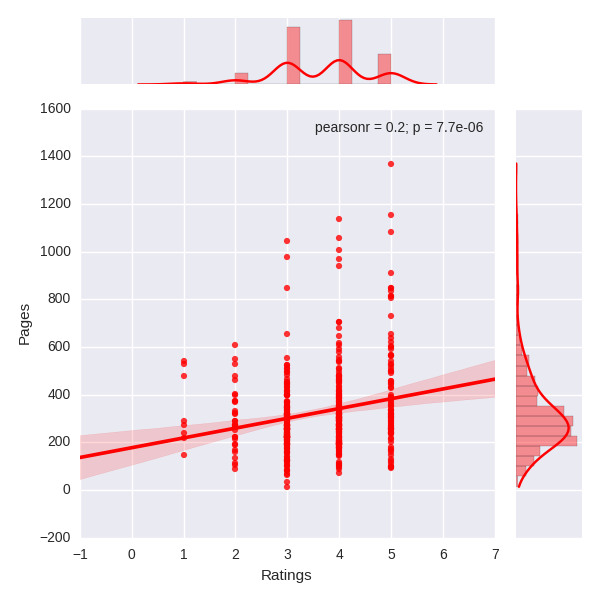
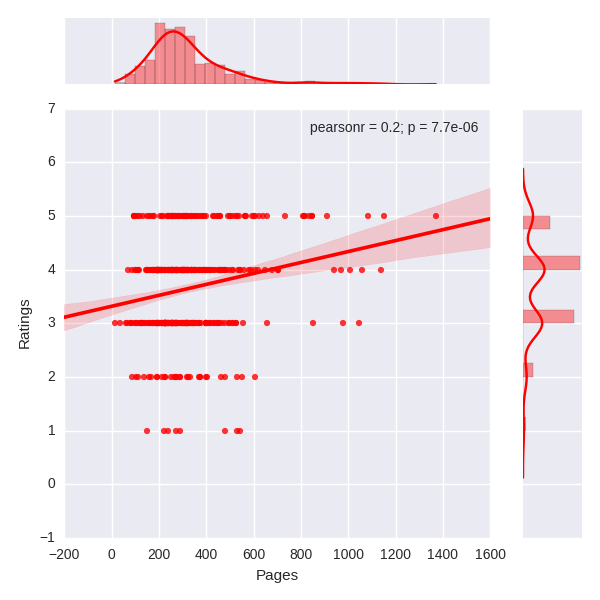
Flips axes for better understanding

diff --git a/plotPagesVsRating.py b/plotPagesVsRating.py
@@ -28,7 +28,7 @@ if __name__ == '__main__':
         all_pages.append(pages)
 
     data = pd.DataFrame({"Ratings":all_ratings, "Pages":all_pages})
-    g = sns.jointplot("Ratings", "Pages", data=data, color="r", kind="reg")
+    g = sns.jointplot("Pages", "Ratings", data=data, color="r", kind="reg")
     plt.tight_layout()
     plt.savefig("Pages_vs_Ratings.png")
     plt.show()

diff --git a/README.md b/README.md
@@ -10,7 +10,7 @@ Do I give longer books better scores? A minor tendency but nothing special (it's
 
 ![Number pages versus ratings](https://raw.github.com/philippbayer/my_goodreads_shelves/master/Pages_vs_Ratings.png)
 
-I seem to mostly books at around 200 to 300 pages so it's hard to tell whether I give longer books better ratings. It's also a nice example that in regards to linear regression, a p-value as tiny as this one doesn't mean much, the r-value is still bad.
+I seem to mostly read books at around 200 to 300 pages so it's hard to tell whether I give longer books better ratings. It's also a nice example that in regards to linear regression, a p-value as tiny as this one doesn't mean much, the r-value is still bad.
 
 ## plotRatingsVsBookshelves.py
 
